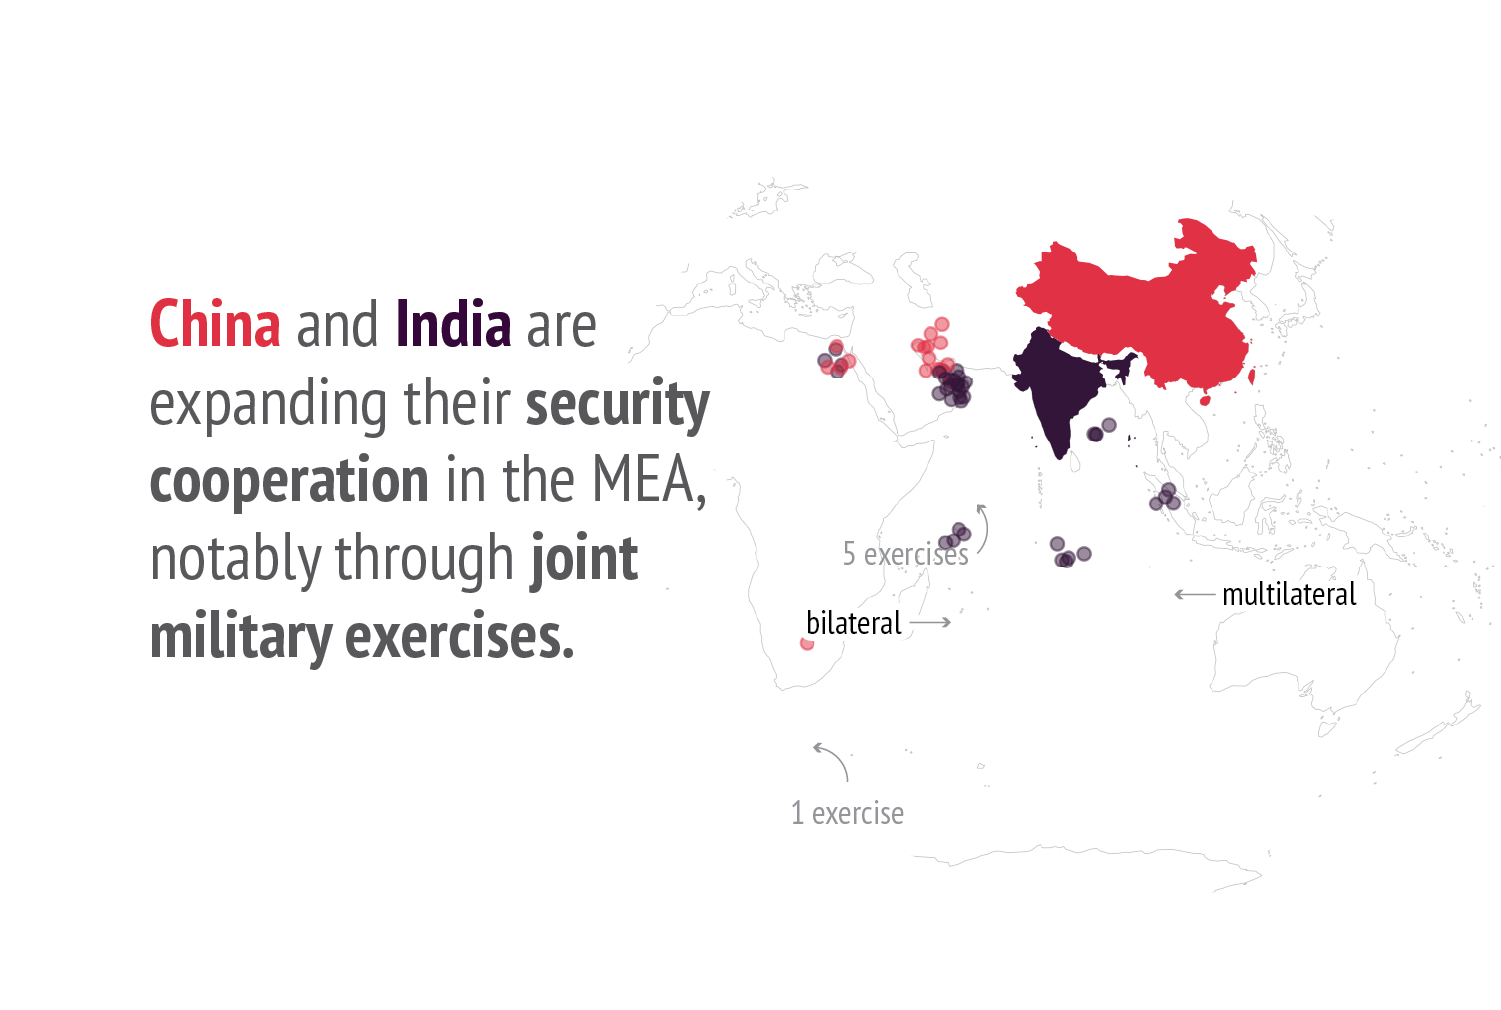
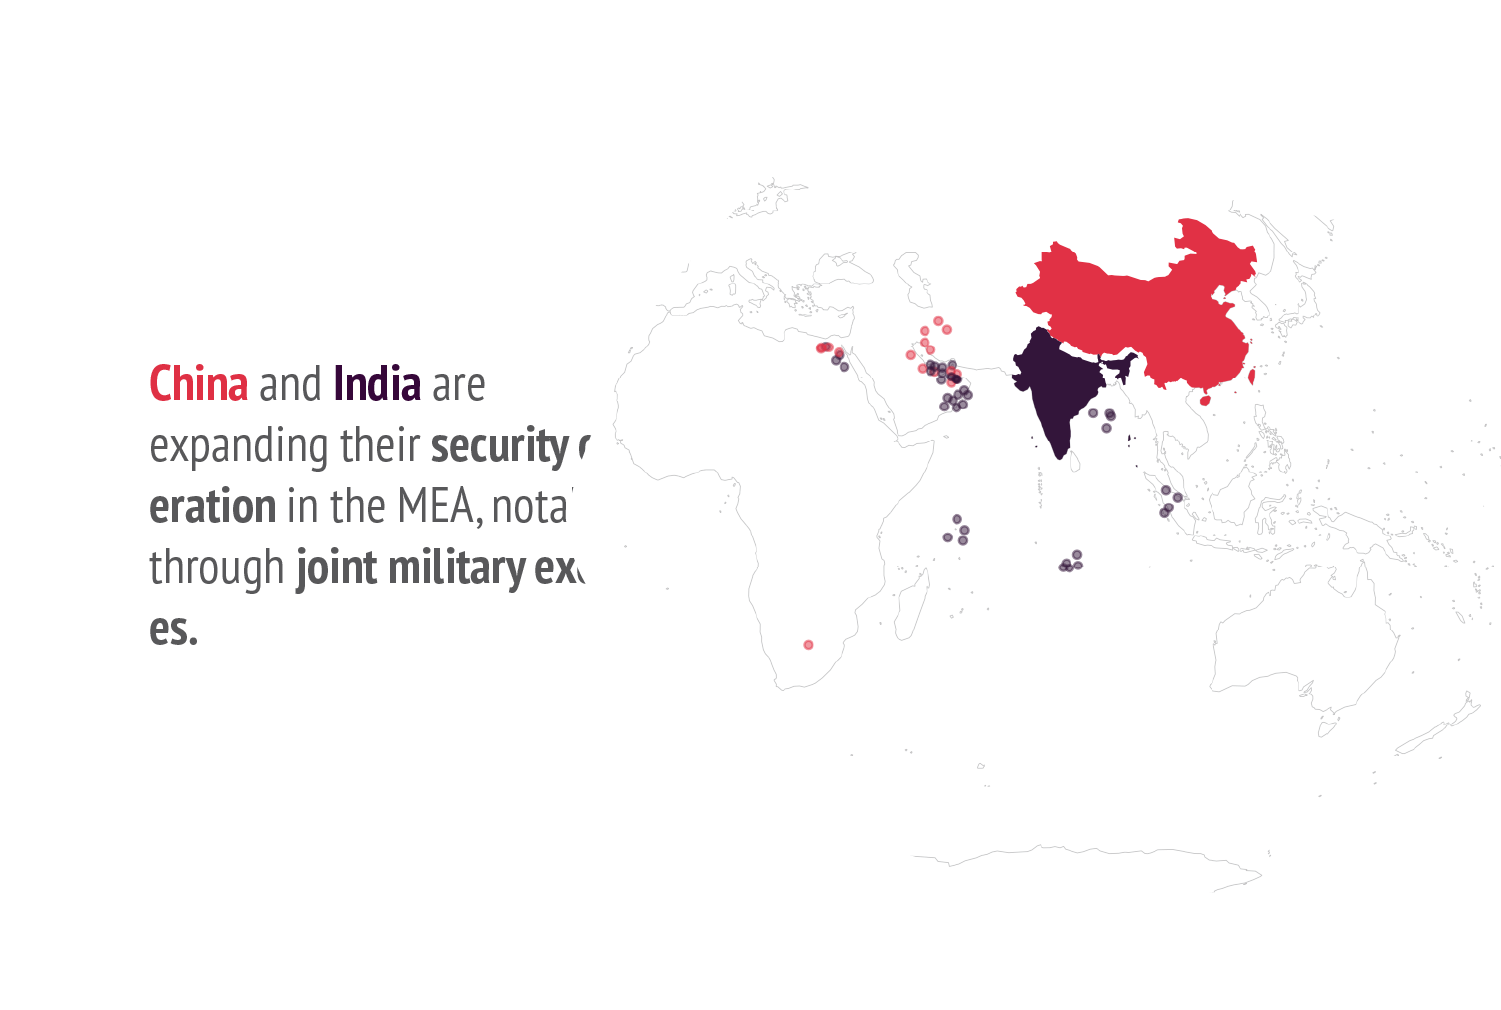
Update landing slider images and GitHub Pages base path

diff --git a/landing.html b/landing.html
@@ -539,10 +539,12 @@
   var FA_SLIDER_2_IMAGES = [
     'key visual mil_ex.png',
     'key visual sop_dia_ext.png',
-    'key visual eco_fdi.png',
+    'key visual eco_hydro.png',
+    'key visual mil_dep.png',
+    'key visual eco_green.png',
   ];
-  var FA_SLIDER_BASE = 'img/slider/';
-  var FA_SLIDER_INTERVAL = 5000;
+  var FA_SLIDER_BASE = 'https://euissr.github.io/analysis_2026_05-Actors-in-the-MEA/img/slider/';
+  var FA_SLIDER_INTERVAL = 3000;
 
   function faInitSlider(elId, images) {
     var el = document.getElementById(elId);
